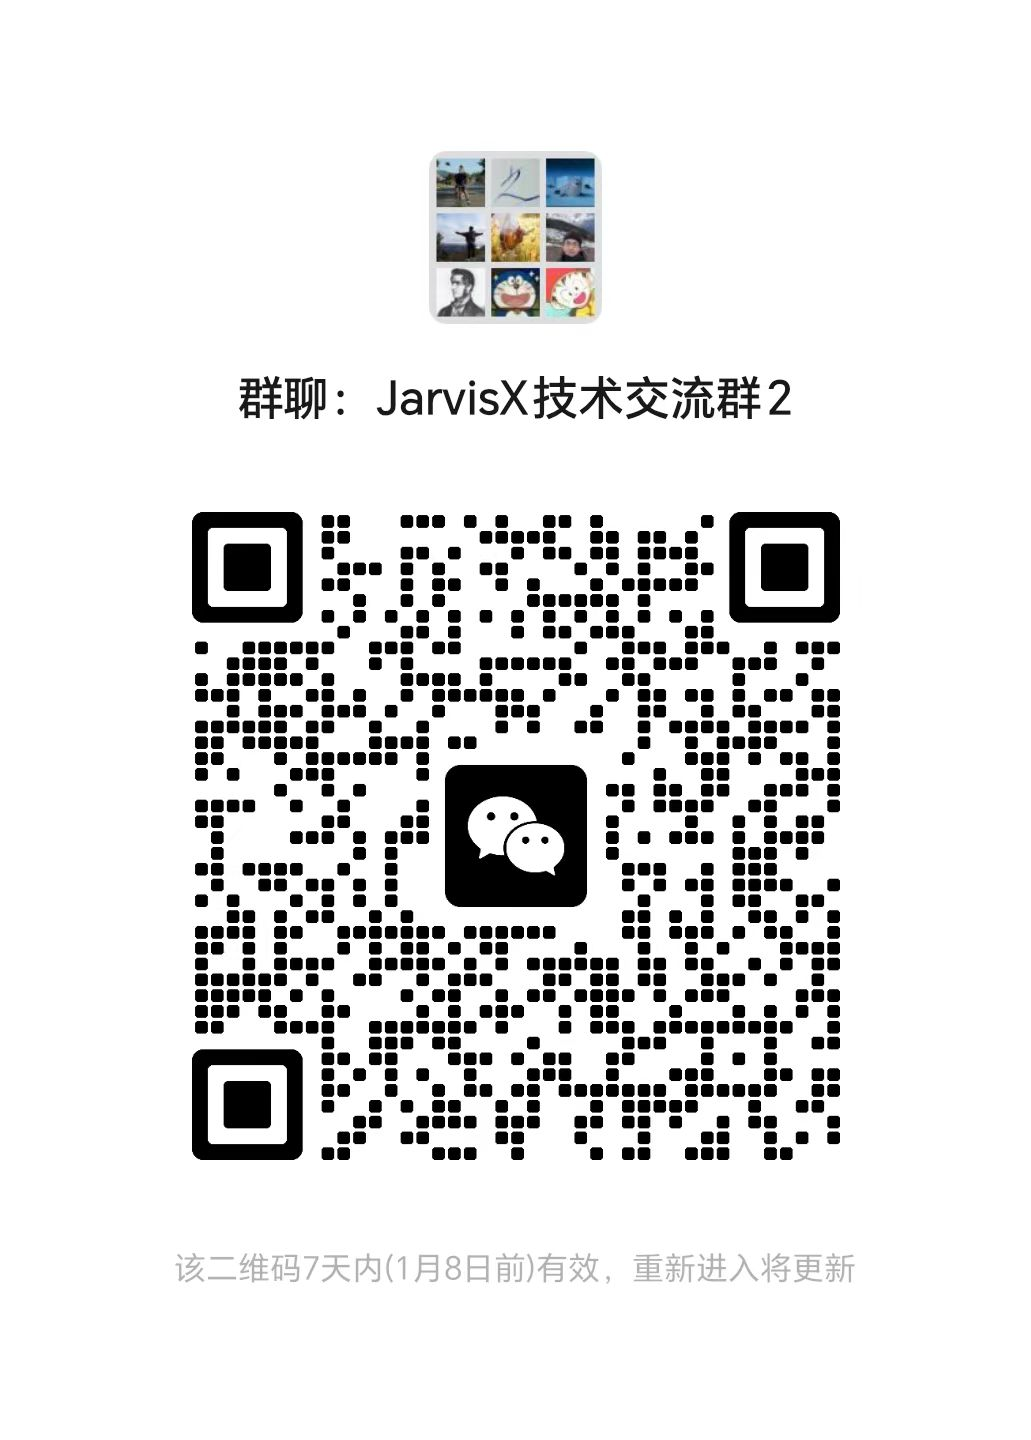
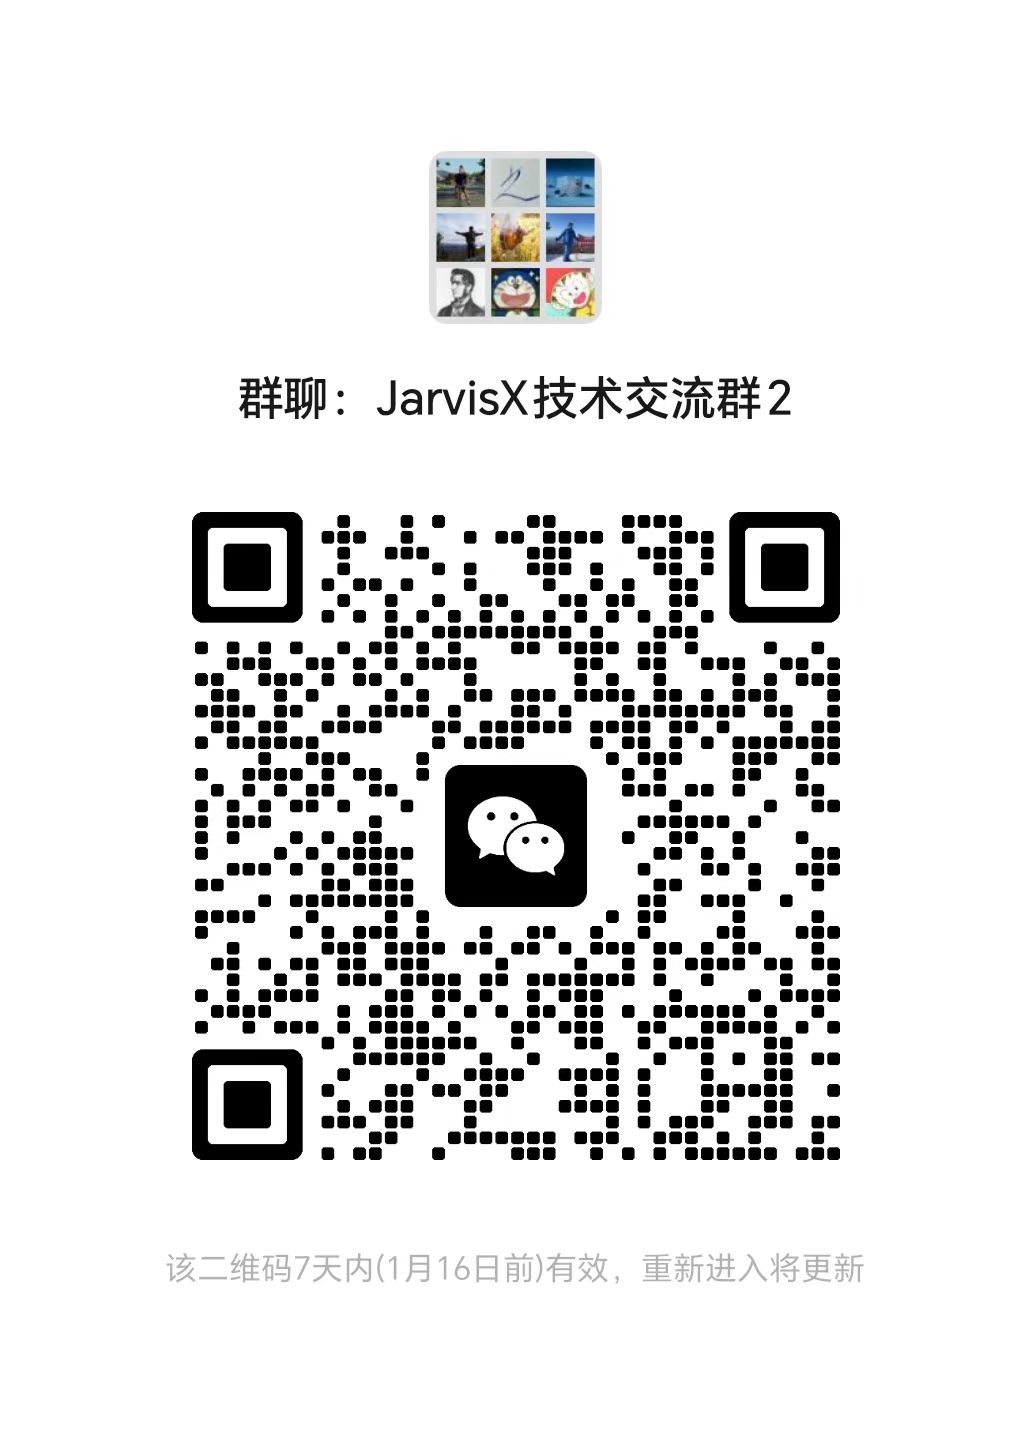
upd wechat group

diff --git a/README.md b/README.md
@@ -160,22 +160,21 @@ We would like to express our gratitude to [LLaMA-Factory](https://github.com/hiy
 If you have any questions during the trial, running or deployment, feel free to join our WeChat group discussion! If you have any ideas or suggestions for the project, you are also welcome to join our WeChat group discussion!
 
 <div align="center">
-  <img src="assets/wechat_group.jpg" alt="WeChat Group" width="300px">
+  <table>
+    <tr>
+      <td align="center">
+        <img src="assets/wechat_group0.jpg" alt="WeChat Group 1" width="300px">
+        <p>WeChat Group 1</p>
+      </td>
+      <td align="center">
+        <img src="assets/wechat_group.jpg" alt="WeChat Group 2" width="300px">
+        <p>WeChat Group 2</p>
+      </td>
+    </tr>
+  </table>
   <p>Scan QR code to join WeChat group discussion</p>
 </div>
 
-
-<!-- --- -->
-
-<!-- <p align="center">
-  <a href="https://star-history.com/#LYL1015/JarvisArt&Date">
-    <img src="https://api.star-history.com/svg?repos=LYL1015/JarvisArt&type=Date" alt="Star History Chart">
-  </a>
-</p>
-
-<div align="center">
-  <sub>🎨 Liberating Human Artistic Creativity, One Photo at a Time 🎨</sub>
-</div> -->
 
 
 ## 📧 Contact
